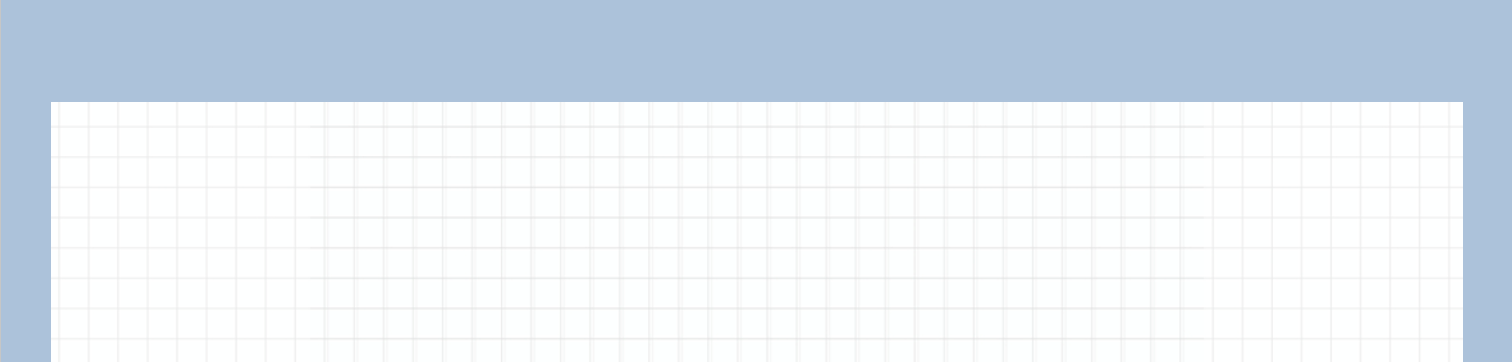
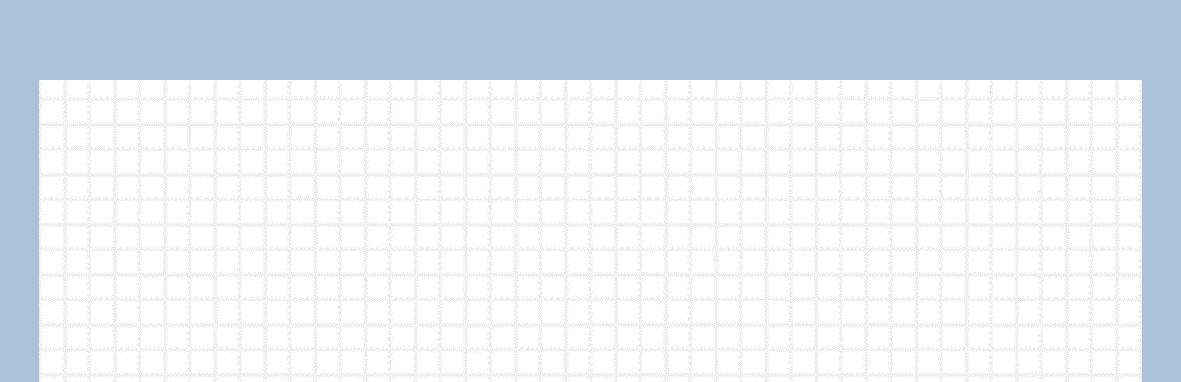
[FE/YS]Feat: 일기 배경 선택 추가

Changed region(s): [[0.0305, 0.2127, 0.9754, 0.3039]]

diff --git a/frontend/mgmg-project/src/styles/diary/DiaryStyle.css b/frontend/mgmg-project/src/styles/diary/DiaryStyle.css
@@ -1,5 +1,5 @@
 .outDiv {
-  background-color: rgba(255, 255, 255, 0.7);
+  /* background-color: rgba(255, 255, 255, 0.7); */
   display: flex;
   flex-direction: column;
   justify-content: center;
@@ -8,7 +8,7 @@
 .diaryWriteTop {
   background-size: 100% 100%;
   height: 100%;
-  flex-basis: 12vh;
+  flex-basis: 15vh;
 }
 
 .diaryDetailTop {
@@ -386,6 +386,12 @@ hr {
     width: 10px;
   }
 
+  .diaryWriteTop {
+    background-size: 100% 100%;
+    height: 100%;
+    flex-basis: 8vh;
+  }
+
   .microButton {
     bottom: 5%;
     right: 10%;
@@ -405,14 +411,14 @@ hr {
   }
 
   .diarymiddle {
-    flex-basis: 46vh;
+    flex-basis: 50vh;
     position: relative;
     background-repeat: repeat-y;
     background-size: contain;
   }
 
   .diarymiddleImg {
-    flex-basis: 27vh;
+    flex-basis: 28vh;
     position: relative;
     background-repeat: repeat-y;
     background-size: contain;
@@ -425,7 +431,7 @@ hr {
   .diarybottom {
     background-size: 100% 100%;
     height: 100%;
-    flex-basis: 10vh;
+    flex-basis: 6vh;
     display: flex;
     flex-direction: column;
     align-items: center;

diff --git a/frontend/mgmg-project/src/styles/diary/BackgroundChoice.css b/frontend/mgmg-project/src/styles/diary/BackgroundChoice.css
@@ -14,24 +14,24 @@
 }
 
 .scroll-image::-webkit-scrollbar {
-  height: 10px;
+  height: 6px;
 }
 
 .scroll-image::-webkit-scrollbar-thumb {
-  background-color: #2f3542;
+  background-color: #464b53;
 }
 
 .scroll-image::-webkit-scrollbar-track {
   background-color: grey;
 }
 
-.scroll-image > .choiceImg {
+.scroll-image>.choiceImg {
   width: calc(10%);
   margin: 0 15px 15px 0;
 }
 
-.scroll-image > .choiceImg:nth-of-type(20n),
-.scroll-image > .choiceImg:last-child {
+.scroll-image>.choiceImg:nth-of-type(20n),
+.scroll-image>.choiceImg:last-child {
   margin-right: 0;
 }
 
@@ -39,7 +39,6 @@
   .scroll-image {
     flex-wrap: nowrap;
     justify-content: flex-start;
-    position: relative;
     width: 100%;
     left: -4%;
     padding: 0 7%;
@@ -49,14 +48,14 @@
     -webkit-overflow-scrolling: touch;
   }
 
-  .scroll-image > .choiceImg {
+  .scroll-image>.choiceImg {
     display: block;
     flex: 0 0 auto;
     width: 40%;
     margin: 0 15px 15px 0;
   }
 
-  .scroll-image > .choiceImg:last-of-type {
+  .scroll-image>.choiceImg:last-of-type {
     margin-right: 0;
   }
 

diff --git a/frontend/mgmg-project/src/components/diarywrite/BackgroundChoice.vue b/frontend/mgmg-project/src/components/diarywrite/BackgroundChoice.vue
@@ -13,7 +13,7 @@
 import eventBus from "./eventBus.js";
 export default {
   data: () => ({
-    backImgs: ["blueCheck", "pinkCheck"],
+    backImgs: ["noteMg", "noteClip", "blueCheck", "pinkCheck", "springBlue", "springYellow", "springGreen", "springPurple", "flowerYellow", "pullGreen", "nightOwl"],
   }),
   methods: {
     imgClick(props) {
@@ -22,6 +22,8 @@ export default {
   },
 };
 </script>
+
+
 
 
 <style scoped src="@/styles/diary/BackgroundChoice.css"/>

diff --git a/frontend/mgmg-project/src/components/diarywrite/DiaryWriting.vue b/frontend/mgmg-project/src/components/diarywrite/DiaryWriting.vue
@@ -120,7 +120,7 @@ export default {
       uploadImageSrc: "",
       imageFile: "",
       diary: "",
-      thema: "blueCheck",
+      thema: "noteMg",
       font: "",
 
       // 감정 분석 결과 이후
@@ -356,6 +356,8 @@ export default {
   },
 };
 </script>
+
+
 
 
 
